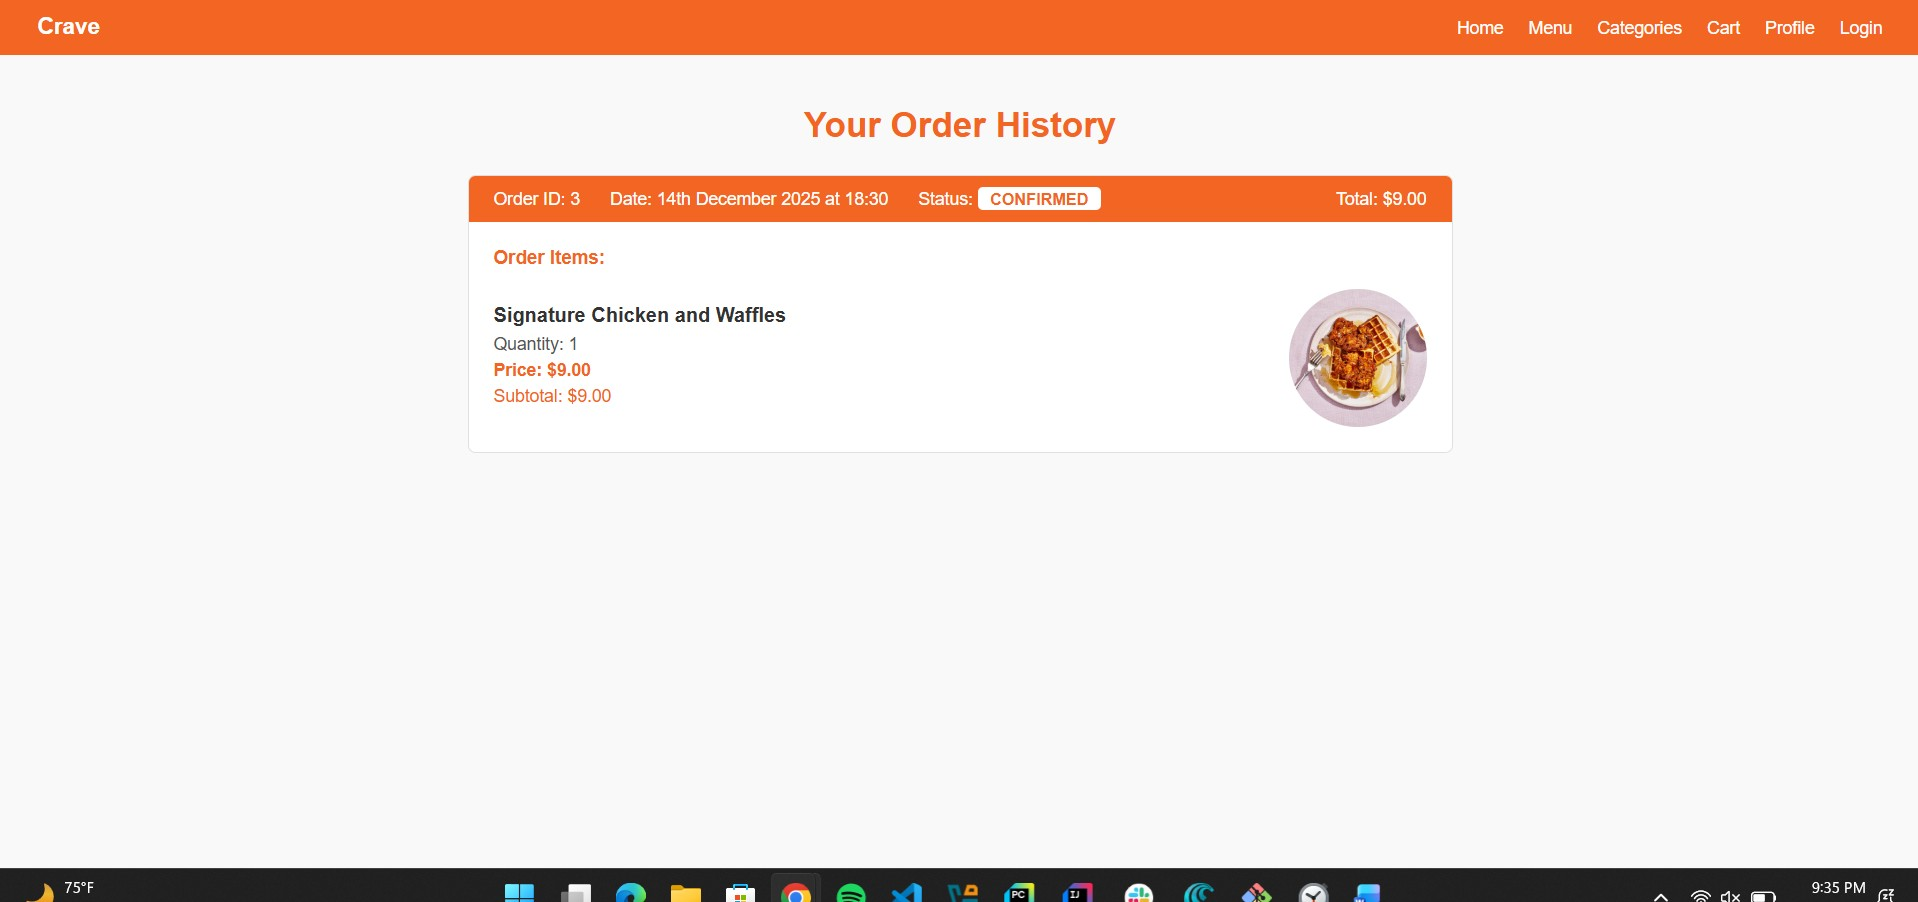
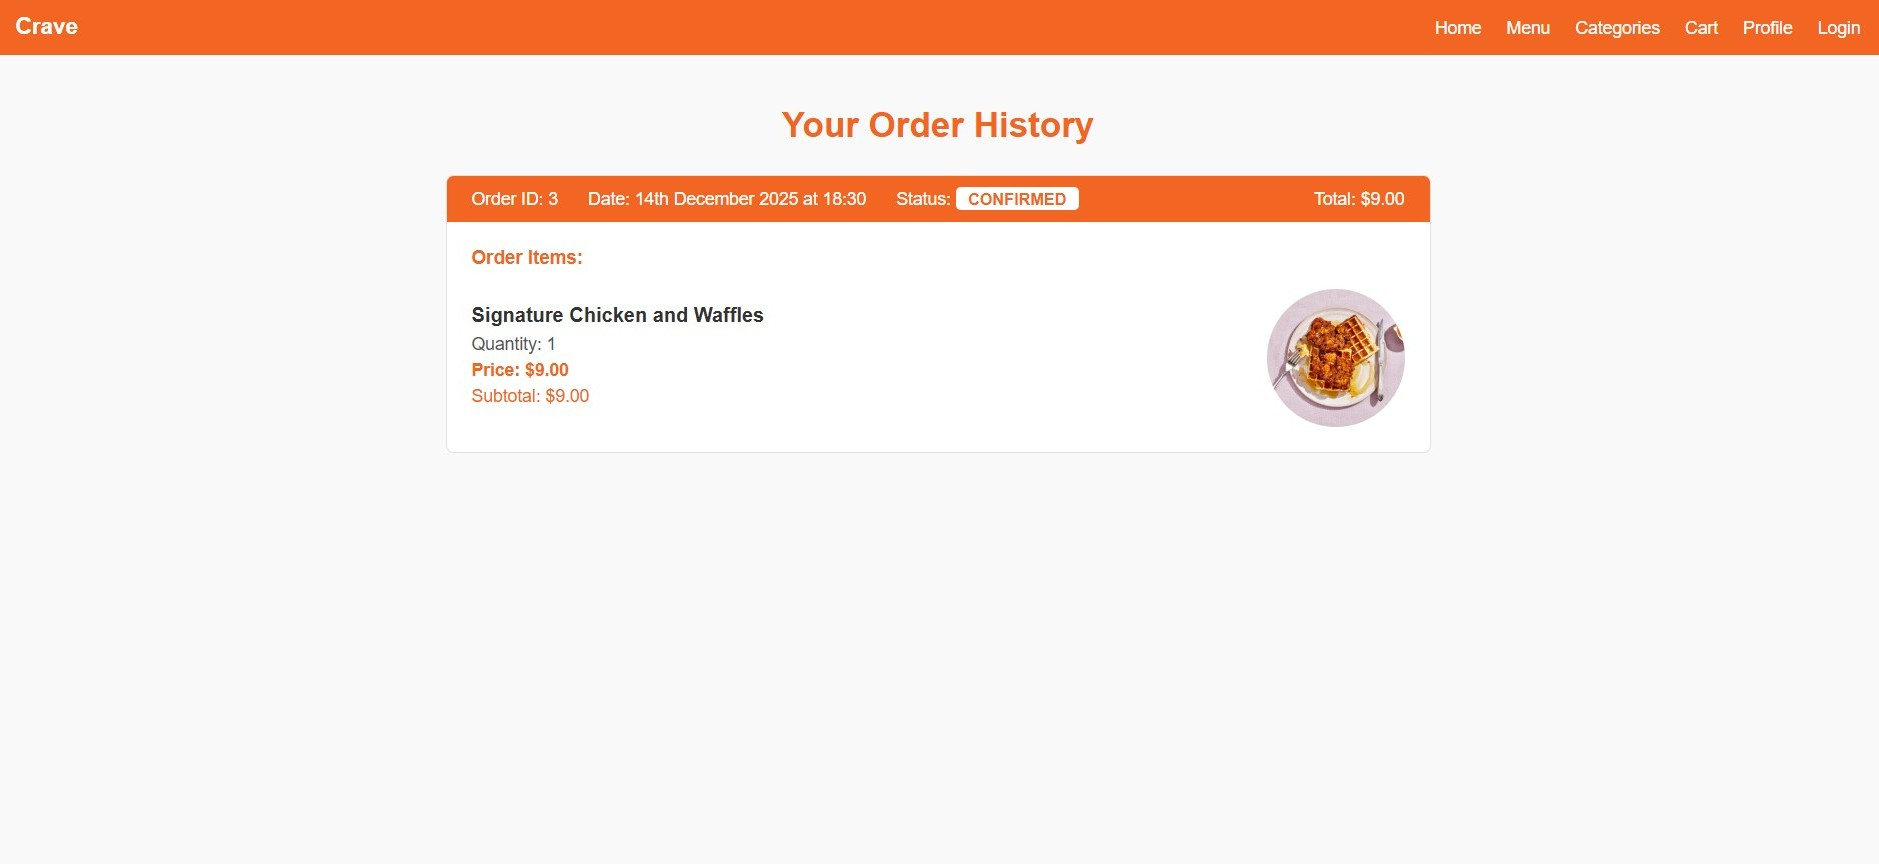
project section modification

diff --git a/docs/main.js b/docs/main.js
@@ -14,7 +14,8 @@ const projects = [
     title: "Crave | Full-Stack Food Ordering Platform",
     description:
       "Developed a secure, production-ready ordering platform with JWT authentication, role-based access control, and Stripe payment integration, backed by scalable RESTful APIs and relational schemas deployed on AWS.",
-    image: null,
+    image: "images/crave_ss.jpg",
+    imageFit: "cover",
     tags: ["Java", "Spring Boot", "React", "AWS", ],
     link: "#",
   },
@@ -48,7 +49,8 @@ const projects = [
     title: "Athena | AI SaaS Platform",
     description:
       "Developed a SaaS platform integrating AI-powered content generation with Next.js App Router, Clerk-based authentication, and protected API routing, while implementing Stripe for subscription billing with tiered plans, usage tracking, and webhook-driven lifecycle automation.",
-    image: null,
+    image: "images/ai_saass_ss.jpg",
+    imageFit: "contain",
     tags: ["Tailwind", "React", "Next.js", "Node.js"],
     link: "#",
   },
